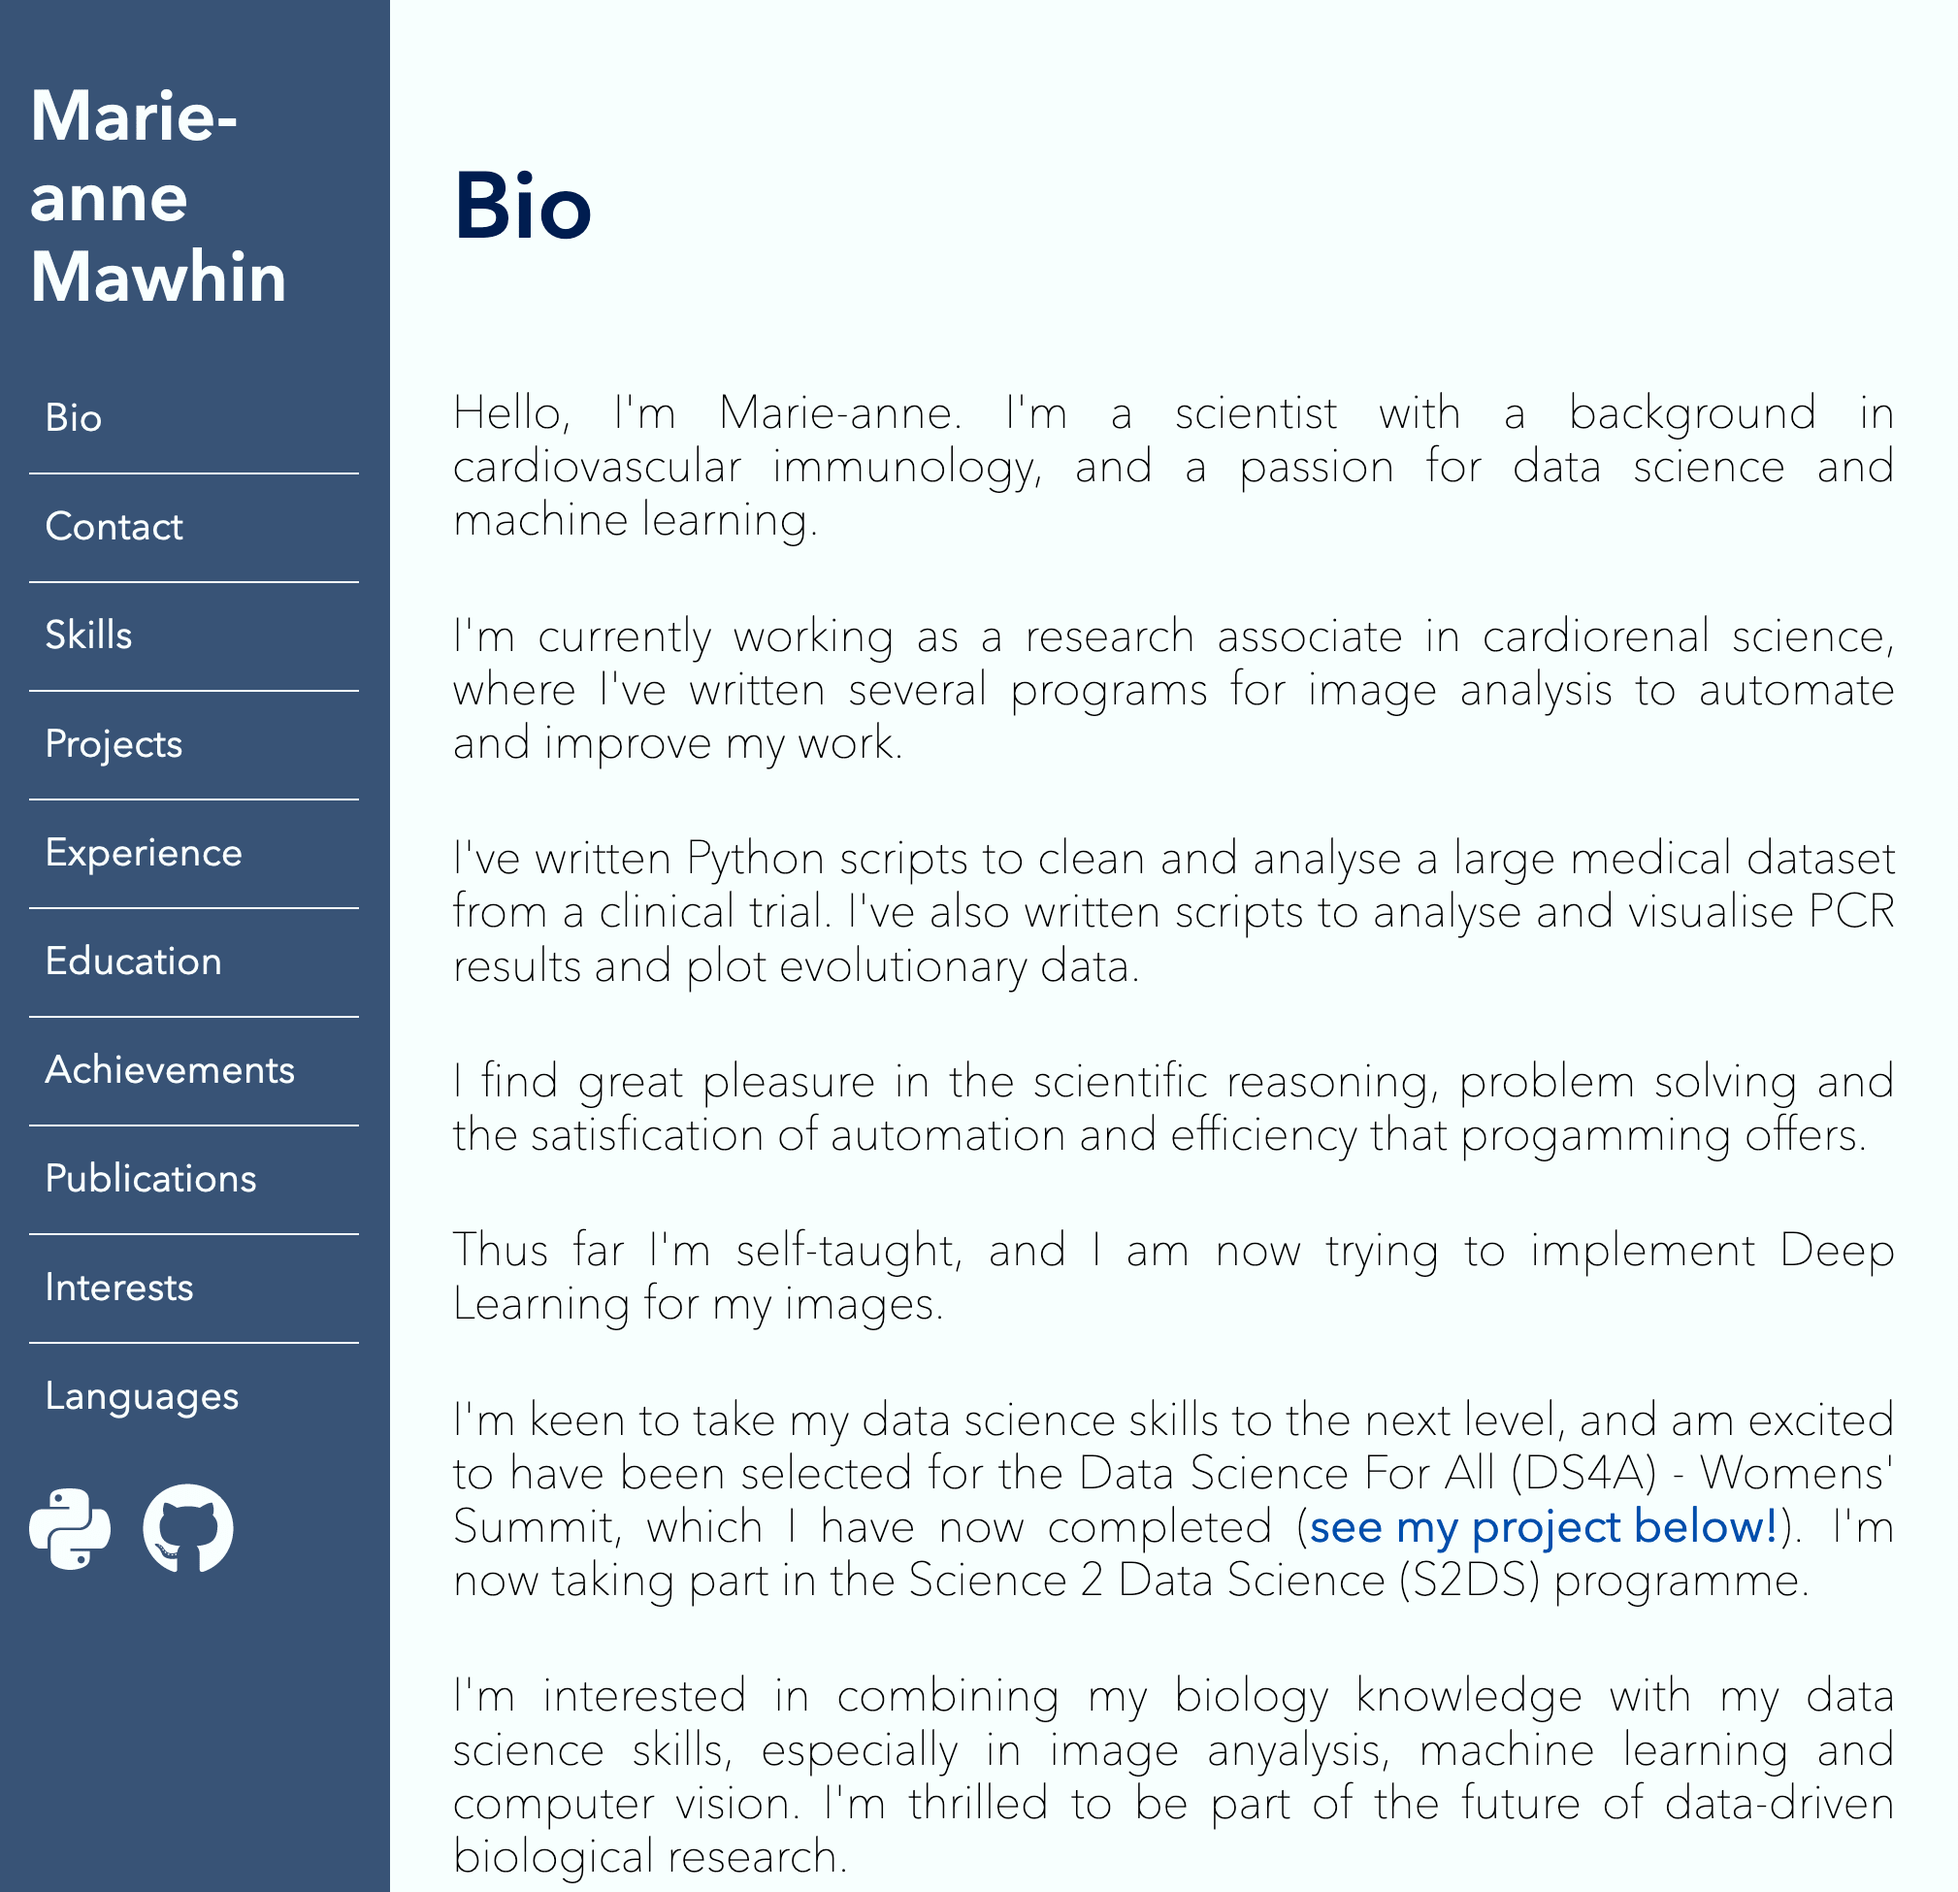
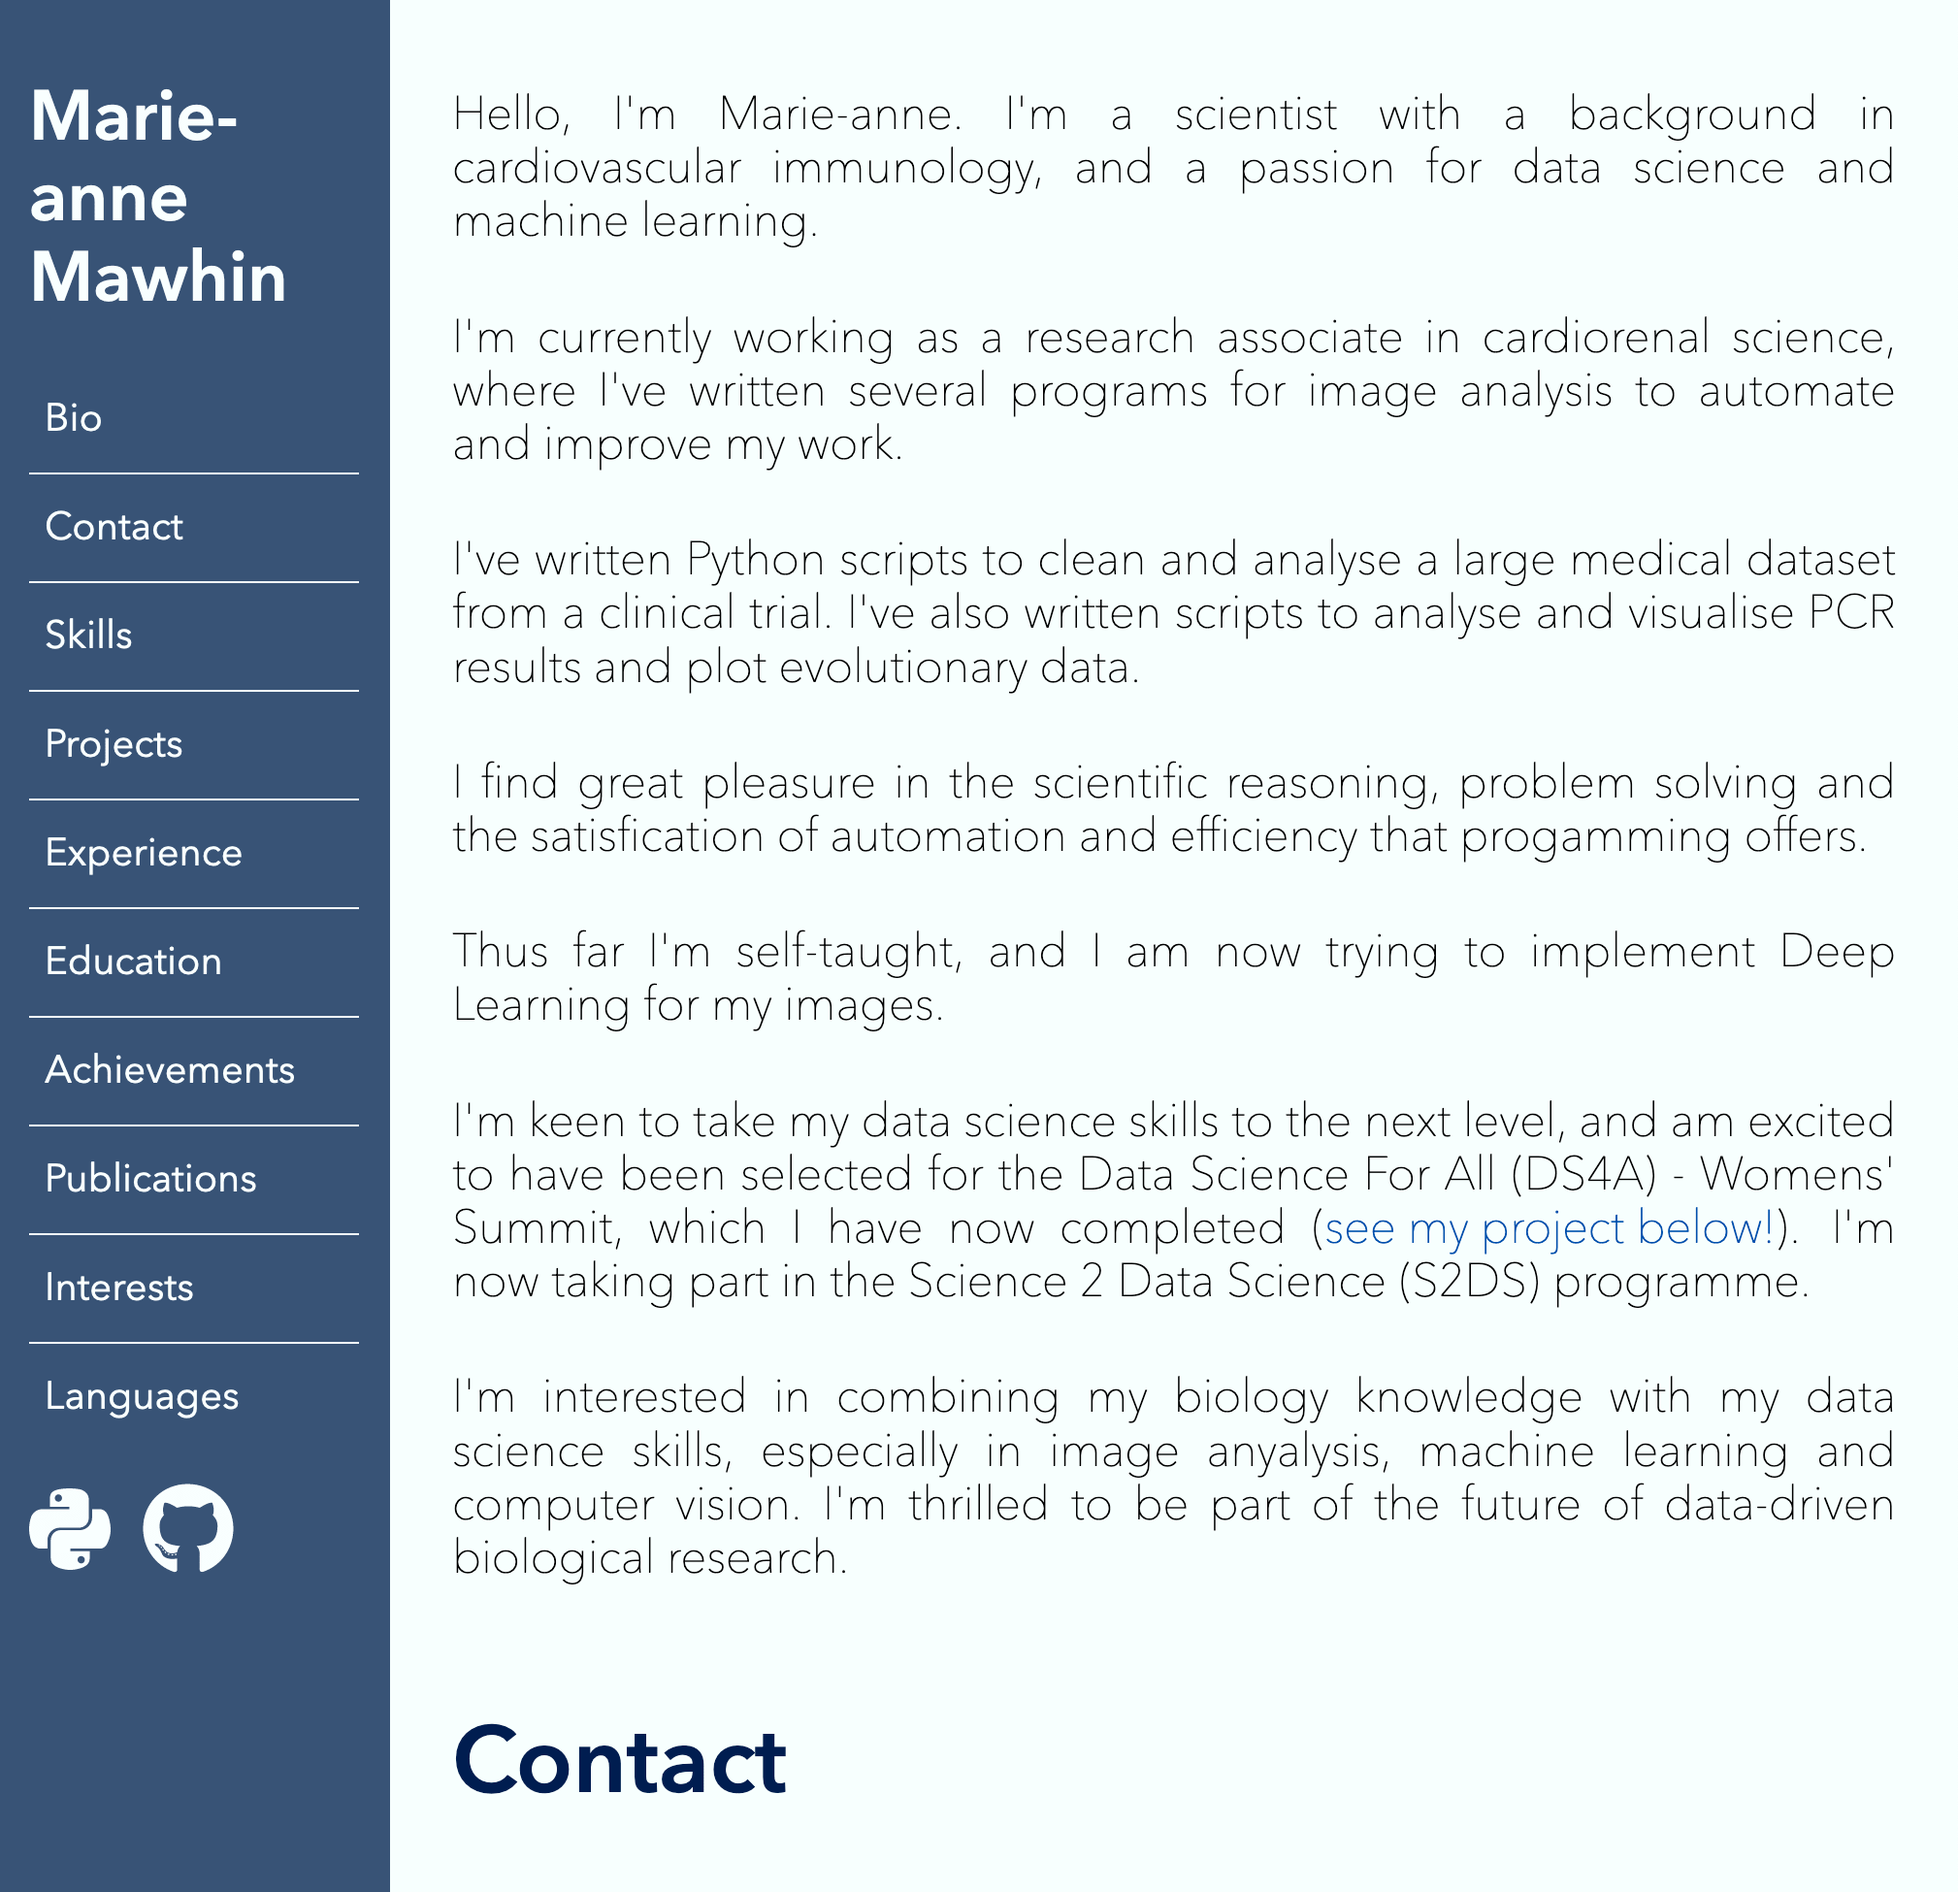
feat: 🎸 make link font weight less and update og image

diff --git a/src/components/Bio.tsx b/src/components/Bio.tsx
@@ -36,7 +36,7 @@ const Bio: React.FC = () => {
           Womens&apos; Summit, which I have now completed (
           <button
             onClick={() => scrollToId('ds4a')}
-            className="link pa0 ba bw0 dark-blue bg-washed-blue pointer"
+            className="link fw2 pa0 ba bw0 dark-blue bg-washed-blue pointer"
           >
             see my project below!
           </button>
